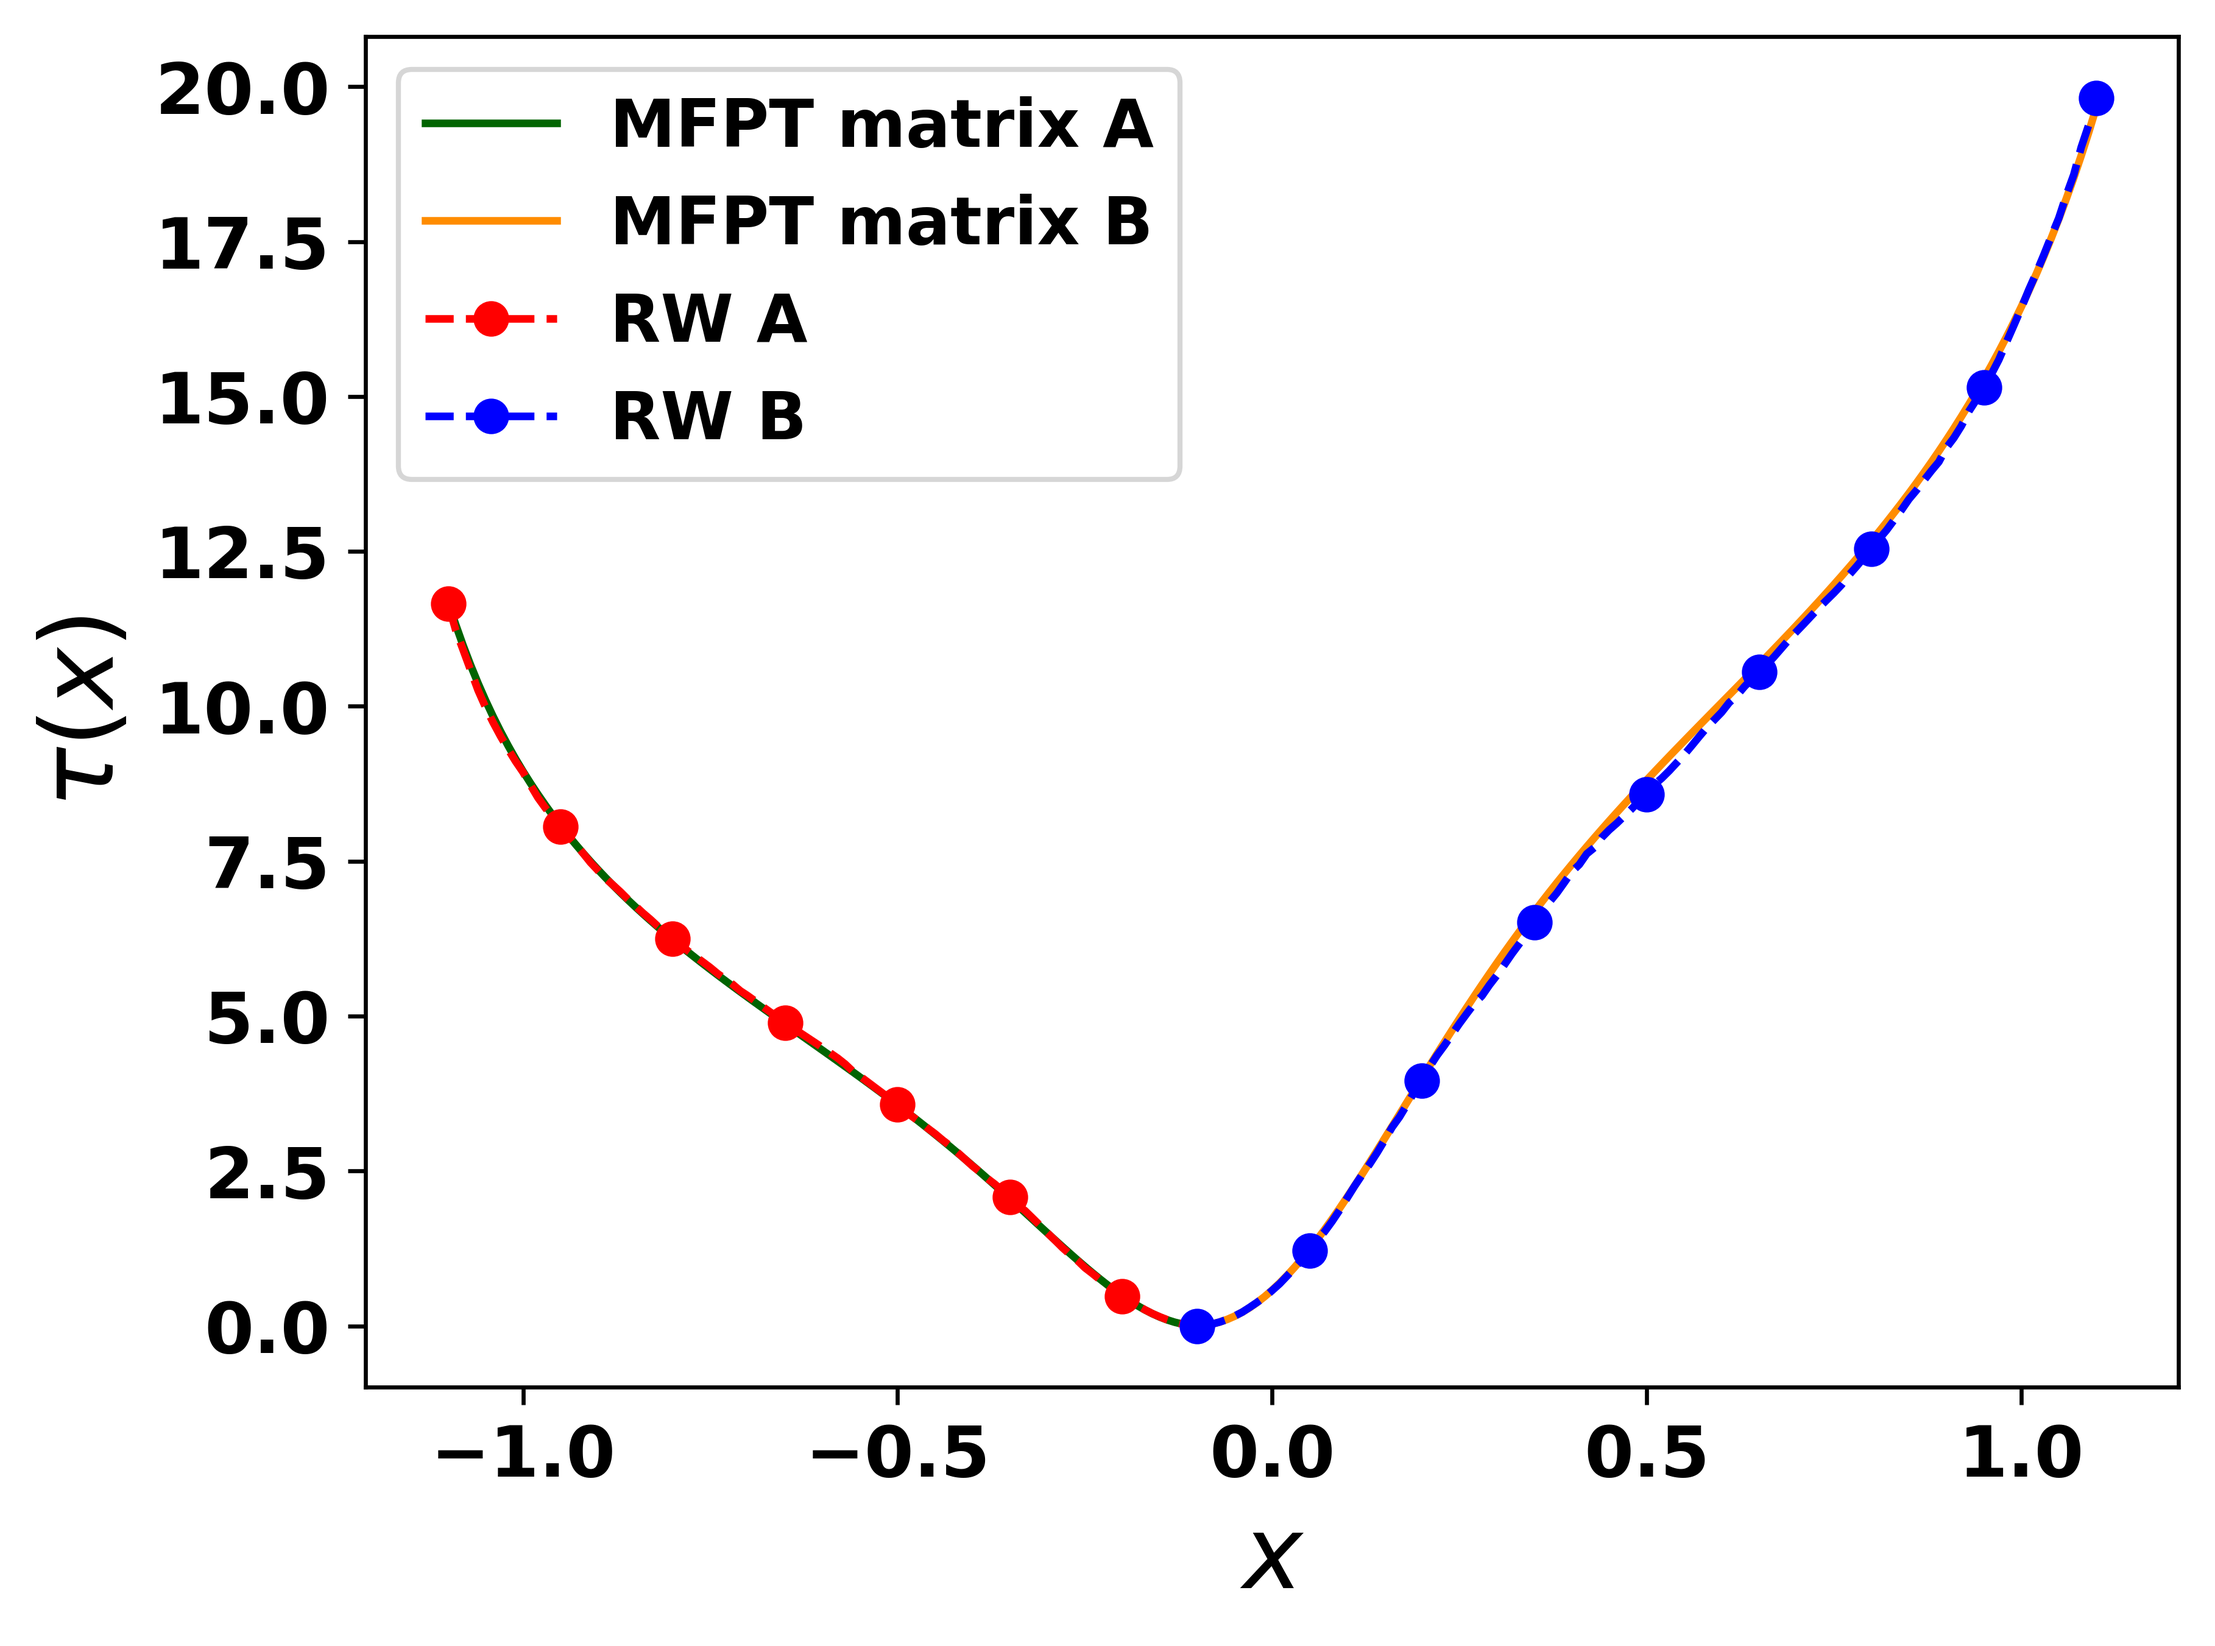
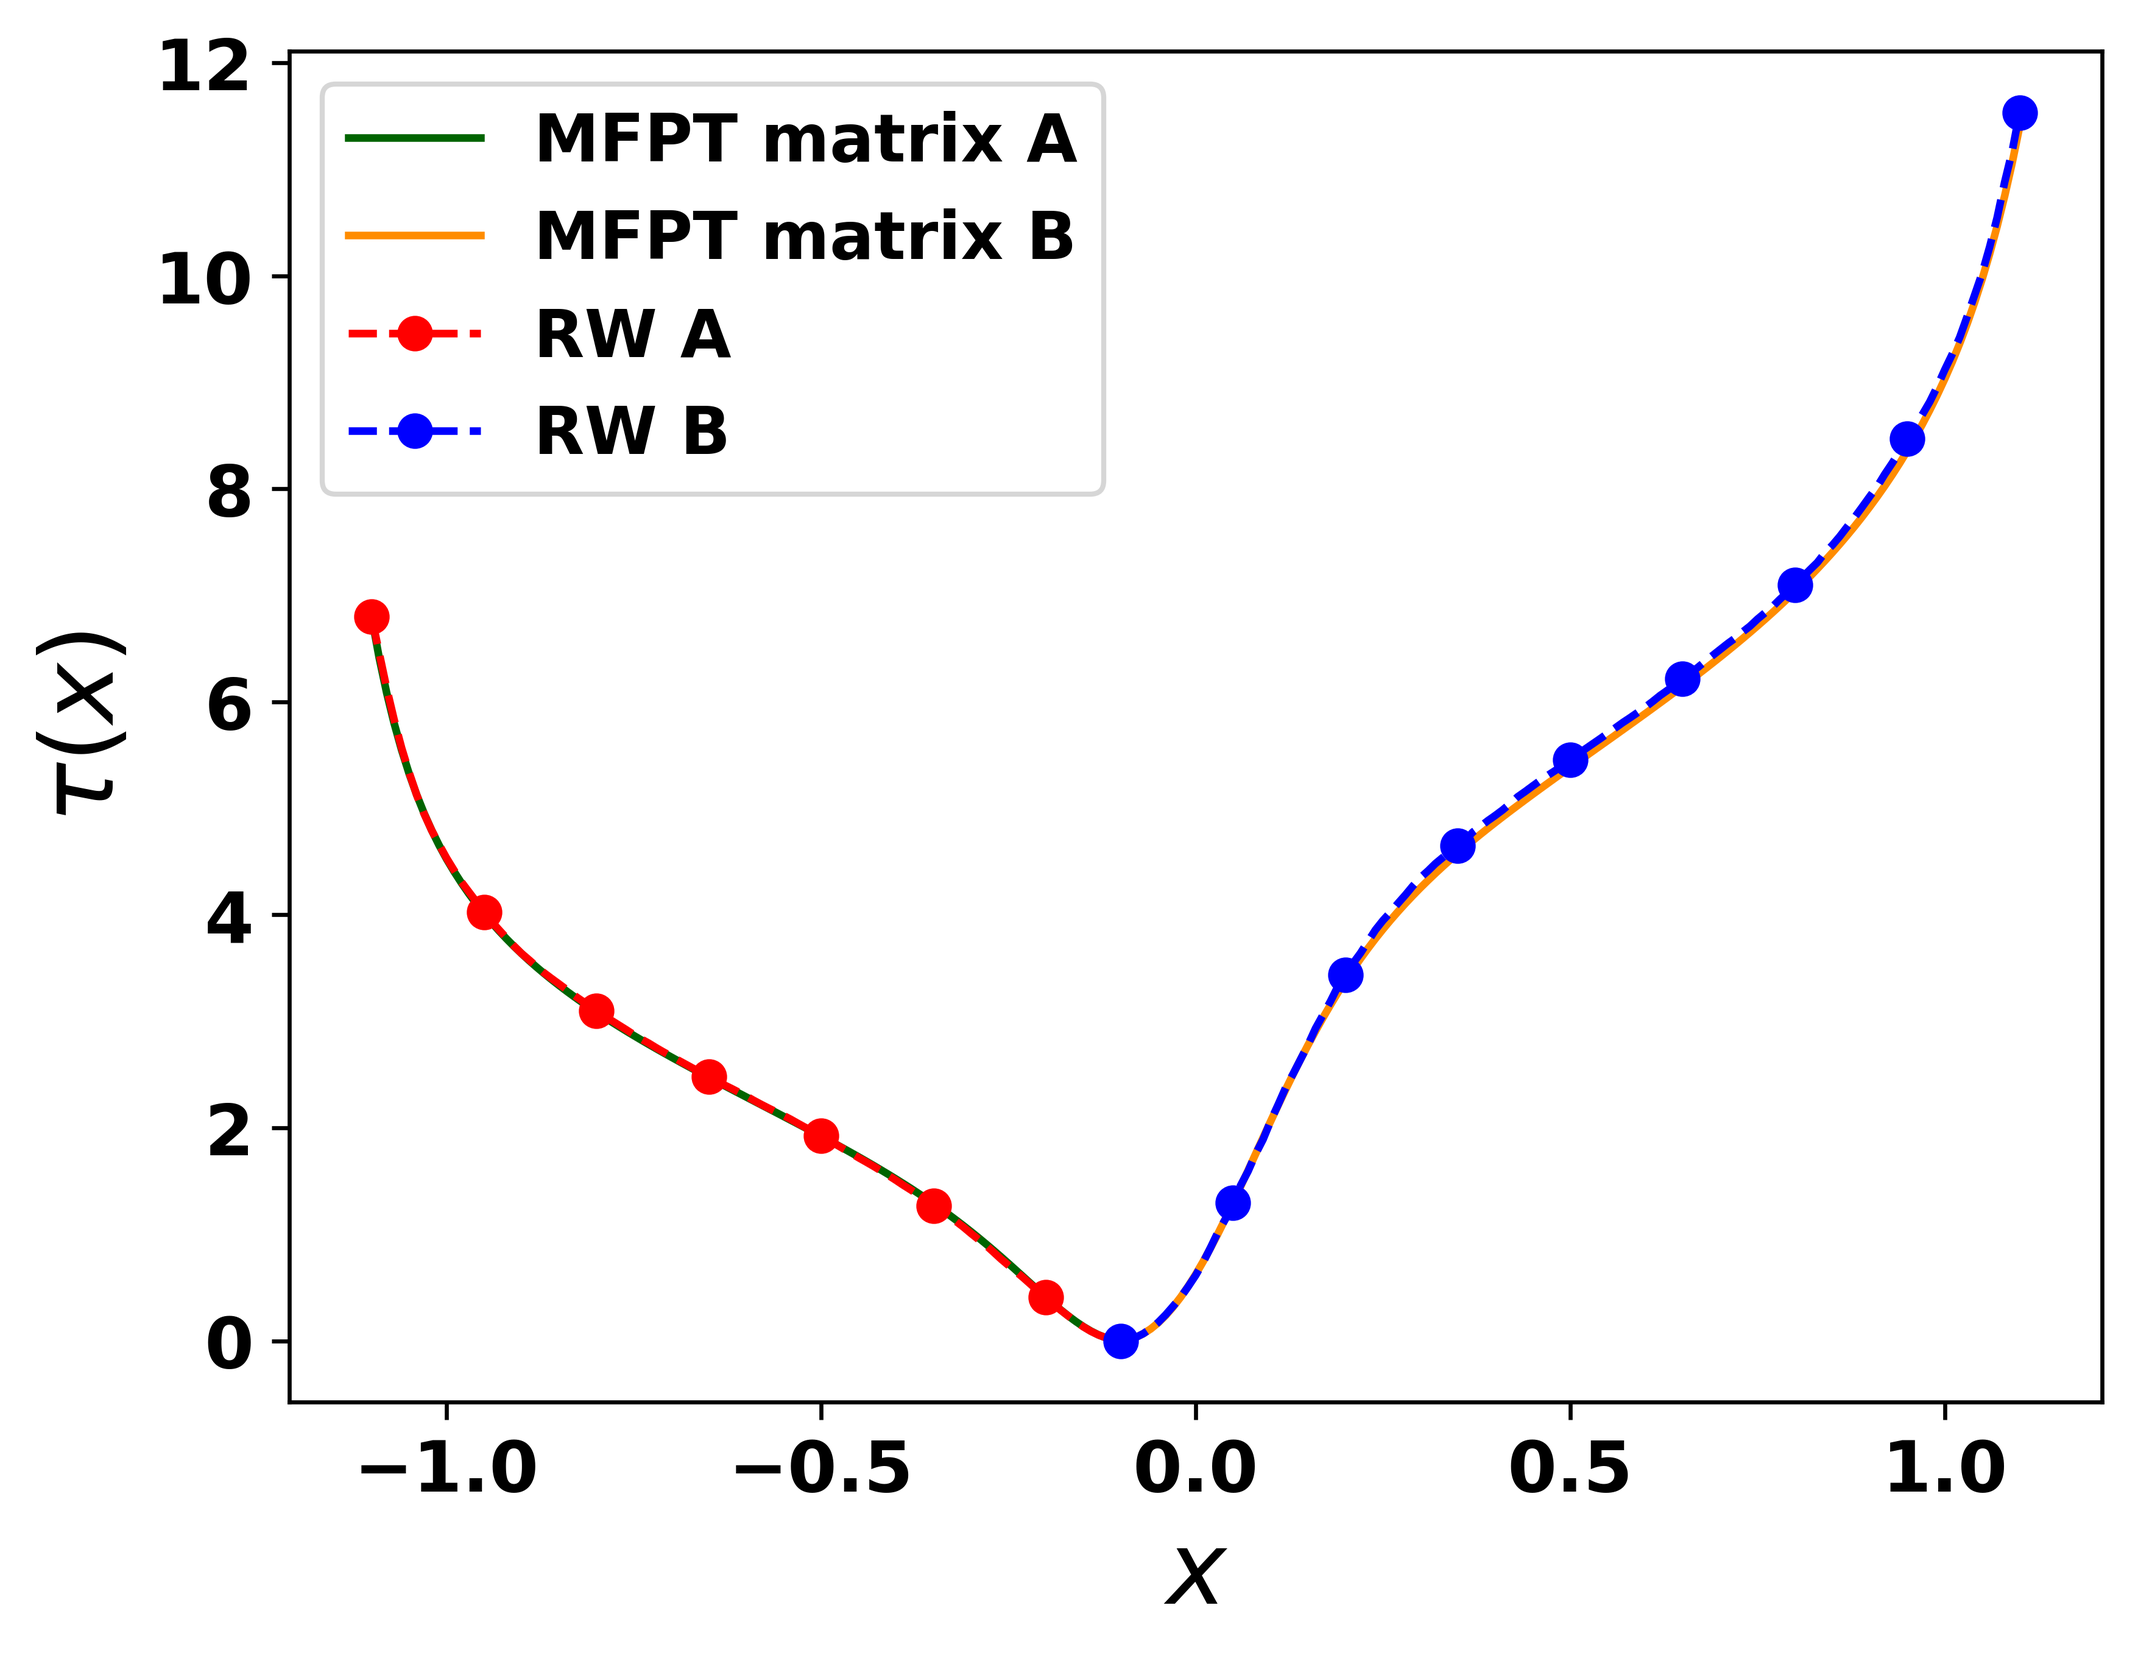
Add plot script and nicer plots for frugal top-start method (high barrier RW)

diff --git a/Top_start_method/Random_walk_Model/Frugal_verison/frugal_top_start_reconst_plot.py b/Top_start_method/Random_walk_Model/Frugal_verison/frugal_top_start_reconst_plot.py
@@ -6,8 +6,8 @@ from scipy.interpolate import interp1d, PchipInterpolator, CubicSpline
 
 # Define the double-well potential using two Gaussian functions
 # def double_gaussian_potential(x, A1=3, mu1=-1, sigma1=0.5, A2=4, mu2=1, sigma2=0.6):
-def double_gaussian_potential(x, A1=12, mu1=-1, sigma1=0.5, A2=10, mu2=1, sigma2=0.6):
-# def double_gaussian_potential(x, A1=30, mu1=-1, sigma1=0.5, A2=25, mu2=1, sigma2=0.6):
+# def double_gaussian_potential(x, A1=12, mu1=-1, sigma1=0.5, A2=10, mu2=1, sigma2=0.6):
+def double_gaussian_potential(x, A1=30, mu1=-1, sigma1=0.5, A2=25, mu2=1, sigma2=0.6):
     V1 = A1 * np.exp(-((x - mu1)**2) / (2 * sigma1**2))
     V2 = A2 * np.exp(-((x - mu2)**2) / (2 * sigma2**2))
     return -(V1 + V2)
